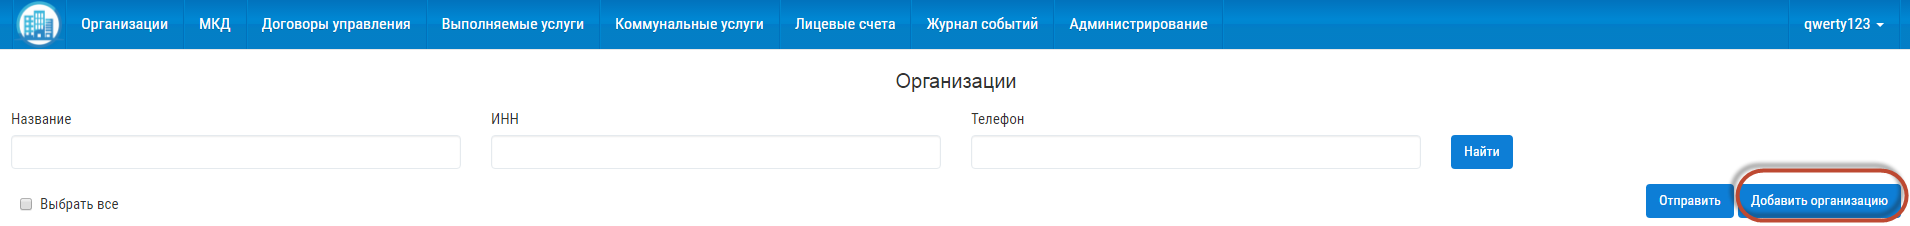
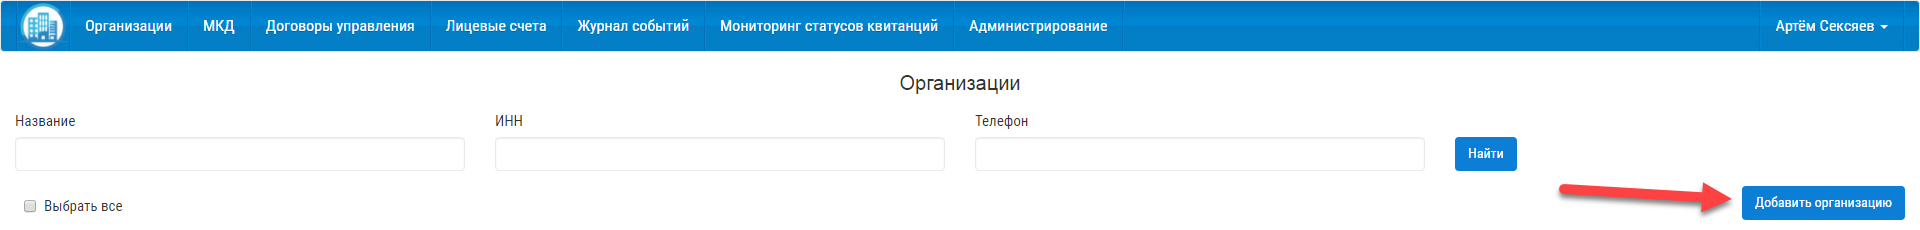
Обновление раздела 4. Пересмотрена структура, добавлен подраздел 4.1, добавлены картинки, исправлены названия файлов.

diff --git a/docs/source/04-management-agreements/4.1.rst b/docs/source/04-management-agreements/4.1.rst
@@ -1,68 +1,78 @@
-По договору управления
-------------------------------
-Добавить договор управления можно двумя способами:
+Получение данных из Реформы ЖКХ 
+--------------------------------
 
-- Из журнала «МКД».
+**Система «Управдом ЖКХ» позволяет синхронизировать (связать) профиль организации с порталом** `Реформа ЖКХ <https://www.reformagkh.ru/>`_ **и автоматически получать данные:**
 
-- Из журнала «Договоры управления».
+- по организации;
 
-В первом случае пользователь сразу может увидеть список домов, для которых требуется создать договоры управления. Во втором случае необходимо открыть договор управления, перейти во вкладку и только потом появится возможномть добавить список домов.
+- по МКД.
 
-**Из журнала «МКД»:**
+**Для синхронизации профиля необходимо:**
 
-Для того, чтобы добавить договор управления для многоквартирного дома, необходимо:
- 
-1. Перейти в раздел «МКД». 
-2. Выбрать из списка многоквартирный дом/список многоквартирных домов, для которого требуется создать договор управления. 
-3. Нажать на кнопку «Создать договор управления».
+1. Перейти в раздел «Администрирование».
 
-.. image:: ../_images/04-management-agreements/32.png
+	.. image:: ../_images/04-management-agreements/40.png
 
-4. Подтвердить создание договоров управления нажатием кнопки «Да».
+2. Нажать кнопку «Связь с Реформой ЖКХ».
 
-.. image:: ../_images/04-management-agreements/33.png
+	.. image:: ../_images/04-management-agreements/41.png
 
-После автоматического обновления журнала, для выбранных домов отобразятся созданные договоры управления.
+3. Ввести в открывшемся окне ИНН.
 
-.. image:: ../_images/04-management-agreements/34.png
+4. Нажать кнопку «Получить список отчётных периодов».
 
-**Из журнала «Договоры управления»:**
+	.. image:: ../_images/04-management-agreements/42.png
 
-1. Нажать кнопку «Добавить договор».
+5. Выбрать в открывшемся окне отчётный период.
 
-.. image:: ../_images/04-management-agreements/28.png
+6. Нажать кнопку «Готово».
 
-2. На вкладке «Перечень объектов управления» нажать кнопку «Выбрать дом» для того, чтобы прикрепить многоквартирный дом/дома, которые относятся к создаваемому договору управления. 
+	.. image:: ../_images/04-management-agreements/43.png
 
-.. image:: ../_images/04-management-agreements/29.png
+После этого появится диалоговое окно с сообщением о синхронизации.
 
-3. В открывшемся списке выбрать МКД.
+	.. image:: ../_images/04-management-agreements/44.png
 
-4. Нажать кнопку «Сохранить».
+**Для получения данных из  «Реформа ЖКХ» необходимо:**
 
-.. image:: ../_images/04-management-agreements/30.png
+1. Перейти в раздел «Журнал событий».
 
-5. После заполнения всех вкладок «Договора управления» нажать кнопку «Сохранить».
+	.. image:: ../_images/04-management-agreements/45.png
 
-.. image:: ../_images/04-management-agreements/31.png
+2. Нажать кнопку «Импорт данных».
 
-Сохраненный договор управления появится в журнале «Договоры управления».
+	.. image:: ../_images/04-management-agreements/46.png
 
-**Для редактирования договора управления следует:** 
+3. Выбрать в открывшемся окне:
 
-1.Нажать кнопку «Редактировать». 
+	- профиль организации из выпадающего списка (ИНН \ Отчётный период);
+	
+	- компоненты (Профиль организации, МКД).
+	
+	.. image:: ../_images/04-management-agreements/47.png
+	
+4. Нажать кнопку «Готово».
 
-.. image:: ../_images/04-management-agreements/35.png
+	.. image:: ../_images/04-management-agreements/48.png
 
-2. В открывшейся форме внесите необходимые изменения.
+После этого появится диалоговое окно с сообщением о загрузке данных из портала «Реформа ЖКХ».
 
-3. Нажать кнопку «Сохранить».
+	.. image:: ../_images/04-management-agreements/49.png
 
-.. image:: ../_images/04-management-agreements/36.png
+**Обращаем внимание: после загрузки данных по МКД из портала «Реформа ЖКХ» необходимо дозаполнить информацию по дому:**
 
-Отредактировать договор управления можно из журнала МКД. Для этого требуется открыть напротив дома договор управления, который требуется изменить. 
+- заполнить поля «Часовая зона» и «Кадастровый номер» (проставить флаг в случае его отсутствия);
 
-.. image:: ../_images/04-management-agreements/37.png
+- отредактировать адрес с помощью полей в случае некорректного заполнения (корпус дома): 
+	
+	a. Д. 12/1 - не правильно.
+	
+	.. image:: ../_images/04-management-agreements/59.png
+	
+	b. Д.12 кор. 1 - правильно.
 
+	.. image:: ../_images/04-management-agreements/60.png
+	
+**В противном случае при отправке данных напрямую и через Excel в «ГИС ЖКХ» возникнут сообщения об ошибках.**
 
-
+**Как отредактировать данные по МКД описано в** `разделе 4.3 <http://upravdomgkh.readthedocs.io/ru/release-1.0.0/04-management-agreements/index.html#id5>`_.

diff --git a/docs/source/04-management-agreements/4.4.rst b/docs/source/04-management-agreements/4.4.rst
@@ -1,0 +1,79 @@
+По договору управления
+------------------------------
+Добавить договор управления можно двумя способами:
+
+- Из журнала «МКД».
+
+- Из журнала «Договоры управления».
+
+В первом случае пользователь сразу может увидеть список домов, для которых требуется создать договоры управления. Во втором случае необходимо открыть (добавить) договор управления, перейти во вкладку «Перечень объектов управления» и выбрать список домов.
+
+**Из журнала «МКД»:**
+
+Для того, чтобы добавить договор управления для многоквартирного дома, необходимо:
+ 
+1. Перейти в раздел «МКД». 
+
+2. Выбрать из списка многоквартирный дом/список многоквартирных домов, для которого требуется создать договор управления. 
+
+3. Нажать на кнопку «Создать договор управления».
+
+	.. image:: ../_images/04-management-agreements/32.png
+
+4. Подтвердить создание договоров управления нажатием кнопки «Да».
+
+	.. image:: ../_images/04-management-agreements/33.png
+
+После автоматического обновления журнала для выбранных домов отобразятся созданные договоры управления.
+
+	.. image:: ../_images/04-management-agreements/34.png
+
+**Из журнала «Договоры управления»:**
+
+1. Нажать кнопку «Добавить договор».
+
+	.. image:: ../_images/04-management-agreements/28.png
+
+2. На вкладке «Перечень объектов управления» нажать кнопку «Выбрать дом» для того, чтобы прикрепить многоквартирный дом/дома, которые относятся к создаваемому договору управления. 
+
+	.. image:: ../_images/04-management-agreements/29.png
+
+3. В открывшемся списке выбрать МКД.
+
+4. Нажать кнопку «Сохранить».
+
+	.. image:: ../_images/04-management-agreements/30.png
+
+5. После заполнения всех вкладок «Договора управления» нажать кнопку «Сохранить».
+
+	.. image:: ../_images/04-management-agreements/31.png
+
+Сохраненный договор управления появится в журнале «Договоры управления».
+
+Отредактировать договор управления можно двумя способами:
+
+- Из журнала «МКД».
+
+- Из журнала «Договоры управления».
+
+**Для редактирования договора управления необходимо:**
+
+1. Перейти в соответствующий раздел («МКД» или «Договоры управления»).
+
+2. Выбрать договор управления для редактирования:
+
+	- в разеделе «МКД»;
+	
+	.. image:: ../_images/04-management-agreements/57.png
+	
+	- в разделе «Договоры управления».
+	
+	.. image:: ../_images/04-management-agreements/58.png
+	
+3. Внести изменения.
+
+4. Нажать кнопку «Сохранить».
+
+
+
+

diff --git a/docs/source/04-management-agreements/4.3.rst b/docs/source/04-management-agreements/4.3.rst
@@ -1,0 +1,54 @@
+По многоквартирному дому
+-----------------------------------
+
+**Для ручного заполнения данных по многоквартирному дому следует:** 
+
+1. Перейти в раздел «МКД».
+
+	.. image:: ../_images/04-management-agreements/53.png
+
+2. Нажать кнопку «Добавить дом».
+
+	.. image:: ../_images/04-management-agreements/15.png
+
+3. Заполнить поля открывшейся формы.
+
+4. Нажать кнопку «Добавить дом к управлению».
+
+	.. image:: ../_images/04-management-agreements/50.png
+
+5. Выбрать из выпадающего списка управляющую организацию.
+
+.. image:: ../_images/04-management-agreements/51.png	
+
+6. Нажать кнопку «Добавить».
+
+7. Заполнить обязательные поля в открывшейся форме:
+
+	.. image:: ../_images/04-management-agreements/52.png
+
+	для заполнения адреса:
+	
+	a. Нажать кнопку «Редактирование».
+	
+	.. image:: ../_images/04-management-agreements/55.png
+	
+	b. Заполнить поля. 
+	
+	.. image:: ../_images/04-management-agreements/56.png
+
+8. Нажать кнопку «Сохранить».
+	
+После этого дом добавится в журнал «МКД».
+
+**Для редактирования «МКД» необходимо:**
+
+1. Перейти в раздел «МКД».
+
+2. Нажать кнопку «Редактирование» напротив требуемого дома (или двойным нажатием левой кнопки мыши по строке).
+
+	.. image:: ../_images/04-management-agreements/54.png
+
+3. Внести необходимые изменения.
+
+4. Нажать кнопку «Сохранить».

diff --git a/docs/source/04-management-agreements/4.2.rst b/docs/source/04-management-agreements/4.2.rst
@@ -1,11 +1,19 @@
-По многоквартирному дому
------------------------------------
+По организации
+------------------------
 
-Для заполнения данных по многоквартирному дому следует: 
+**Для ручного заполнения данных по организации следует**
 
-1. Нажать кнопку «Добавить дом».
+1. Перейти в раздел «Организации».
 
-.. image:: ../_images/03-work-section-mkd/15.png
+2. Нажать кнопку «Добавить организацию».
 
-2. Заполнить поля открывшейся формы.
-3. Нажать кнопку «Сохранить».
+	.. image:: ../_images/04-management-agreements/1.png
+
+3. Заполнить поля открывшейся формы сведениями об организации.
+
+4. Нажать кнопку «Сохранить».
+
+	.. image:: ../_images/04-management-agreements/2.png
+
+
+

diff --git a/docs/source/04-management-agreements/index.rst b/docs/source/04-management-agreements/index.rst
@@ -1,9 +1,11 @@
 Как заполнить данные в системе Управдом ЖКХ?
 =============
 
-.. include:: 4.0.rst
-
 .. include:: 4.1.rst
 
 .. include:: 4.2.rst
+
+.. include:: 4.3.rst
+
+.. include:: 4.4.rst
 
